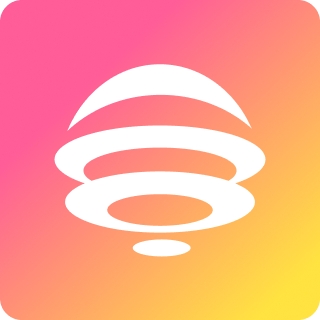
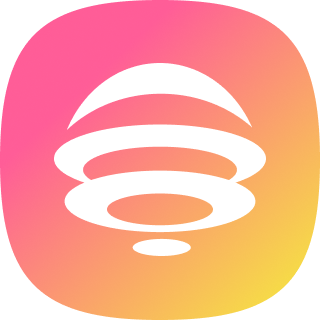
[Issue-17] Update style for welcome and login screens

diff --git a/packages/extension-koni-ui/src/Popup/Welcome.tsx b/packages/extension-koni-ui/src/Popup/Welcome.tsx
@@ -83,8 +83,8 @@ function Component ({ className }: Props): React.ReactElement<Props> {
         <div className='logo-container'>
           <Image
             shape={'square'}
-            src={'./images/subwallet/welcome-logo.png'}
-            width={139}
+            src={'./images/openbit/openbit-logo-and-text.png'}
+            width={100}
           />
         </div>
         <div className='sub-title'>
@@ -110,8 +110,8 @@ function Component ({ className }: Props): React.ReactElement<Props> {
                 schema={item.schema}
               >
                 <div className='welcome-import-button-content'>
-                  <div className='welcome-import-button-title'>{item.title}</div>
-                  <div className='welcome-import-button-description'>{item.description}</div>
+                  <div className={CN(className, 'welcome-import-button-title', {isPrimarySch: item.schema === 'primary'})}>{item.title}</div>
+                  <div className={CN(className, 'welcome-import-button-description', {isPrimarySch: item.schema === 'primary'})}>{item.description}</div>
                 </div>
               </Button>
             ))
@@ -124,11 +124,12 @@ function Component ({ className }: Props): React.ReactElement<Props> {
 }
 
 const Welcome = styled(Component)<Props>(({ theme: { token } }: Props) => {
+  console.log('token', token);
   return {
     position: 'relative',
 
     '.bg-image': {
-      backgroundImage: 'url("./images/subwallet/welcome-background.png")',
+      backgroundImage: 'url("./images/subwallet/openbit-welcome-background.png")',
       backgroundRepeat: 'no-repeat',
       backgroundPosition: 'top',
       backgroundSize: 'contain',
@@ -202,7 +203,13 @@ const Welcome = styled(Component)<Props>(({ theme: { token } }: Props) => {
           fontSize: token.fontSizeHeading6,
           lineHeight: token.lineHeightHeading6,
           color: token.colorTextLabel
-        }
+        },
+        '.welcome-import-button-title.isPrimarySch':  {
+          color: token.colorTextDark1
+        },
+        '.welcome-import-button-description.isPrimarySch': {
+          color: token.colorTextDark3
+        },
       }
     }
   };

diff --git a/packages/extension-koni-ui/src/Popup/Keyring/Login.tsx b/packages/extension-koni-ui/src/Popup/Keyring/Login.tsx
@@ -83,7 +83,7 @@ const Component: React.FC<Props> = ({ className }: Props) => {
         <div className='body-container'>
           <div className='logo-container'>
             <Image
-              src='./images/subwallet/gradient-logo.png'
+              src='./images/openbit/openbit-logo.png'
               width={80}
             />
           </div>
@@ -148,7 +148,7 @@ const Login = styled(Component)<Props>(({ theme }: Props) => {
     position: 'relative',
 
     '.bg-image': {
-      backgroundImage: 'url("./images/subwallet/welcome-background.png")',
+      backgroundImage: 'url("./images/openbit/openbit-welcome-background.png")',
       backgroundRepeat: 'no-repeat',
       backgroundPosition: 'top',
       backgroundSize: 'contain',
